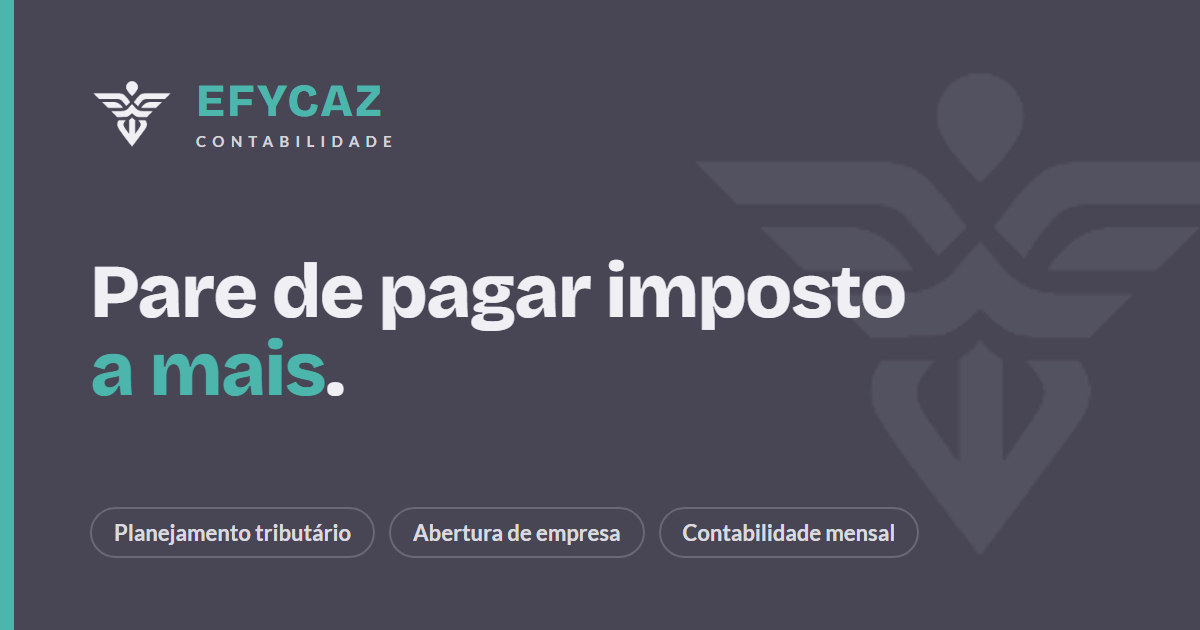
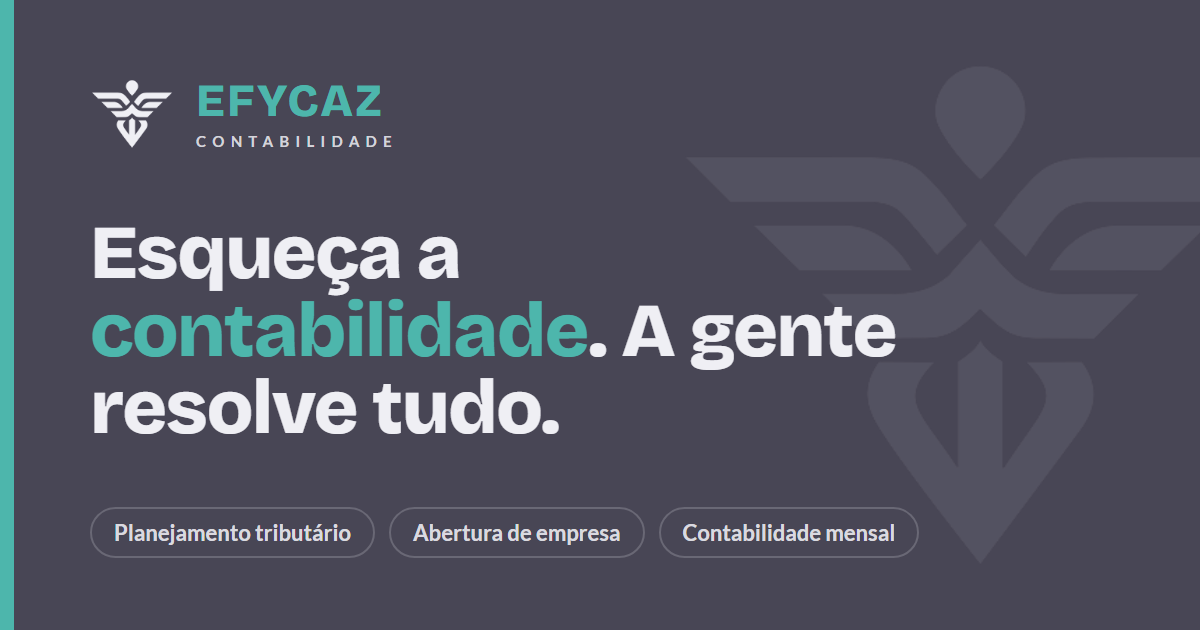
Copy mais direta: foco em tirar a contabilidade das costas do cliente

Changed region(s): [[0.0617, 0.3619, 0.7708, 0.6937], [0.0925, 0.181, 0.1233, 0.2111], [0.0925, 0.1206, 0.1233, 0.1508]]

diff --git a/src/components/sections/hero.tsx b/src/components/sections/hero.tsx
@@ -7,7 +7,7 @@ import { BlurFade } from "@/components/magic/blur-fade";
 import { WhatsAppIcon } from "@/components/whatsapp-icon";
 import { HOURS, whatsappLink } from "@/lib/site";
 
-const promises = ["Atendimento com contador de verdade", "Troca de contador sem burocracia", "Resposta no mesmo dia útil"];
+const promises = ["Zero papelada para você", "Troca de contador sem burocracia", "Contador de verdade no WhatsApp"];
 
 export function Hero() {
   return (
@@ -17,28 +17,28 @@ export function Hero() {
       <div className="relative mx-auto grid max-w-6xl items-center gap-16 px-5 sm:px-8 lg:grid-cols-[1.15fr_1fr]">
         <div>
           <BlurFade>
-            <Badge className="border-teal/40 bg-teal/15 text-teal-bright">Contabilidade consultiva para empresas</Badge>
+            <Badge className="border-teal/40 bg-teal/15 text-teal-bright">Contabilidade completa para empresas</Badge>
           </BlurFade>
           <BlurFade delay={100}>
             <h1 id="hero-title" className="mt-6 font-display text-[2.5rem] font-extrabold leading-[1.04] tracking-tight sm:text-6xl lg:text-[4rem]">
-              Pare de pagar imposto{" "}
+              Esqueça a{" "}
               <span className="relative whitespace-nowrap text-teal">
-                a mais
+                contabilidade
                 <svg aria-hidden viewBox="0 0 200 12" preserveAspectRatio="none" className="absolute -bottom-2 left-0 h-3 w-full text-teal/60">
                   <path d="M2 9C50 3 150 3 198 7" stroke="currentColor" strokeWidth="4" fill="none" strokeLinecap="round" />
                 </svg>
               </span>
-              . <span className="text-mist/90">Sua contabilidade resolvida pelo WhatsApp.</span>
+              . <span className="text-mist/90">A gente resolve tudo.</span>
             </h1>
           </BlurFade>
           <BlurFade delay={200}>
             <p className="mt-7 max-w-xl text-lg leading-relaxed text-mist/75 sm:text-xl">
-              A Efycaz revisa o enquadramento tributário da sua empresa, cuida das obrigações fiscais e da folha, e responde você com um contador de verdade, não com robô nem número de protocolo.
+              Impostos, guias, folha, prazos e burocracia passam a ser problema nosso. Você volta a fazer o que dá dinheiro: vender, atender e crescer. E ainda paga só o imposto que a lei exige.
             </p>
           </BlurFade>
           <BlurFade delay={300} className="mt-10 flex flex-col sm:flex-row">
-            <Button href={whatsappLink("Olá! Quero falar com um contador sobre a minha empresa.")} target="_blank" rel="noopener" size="lg">
-              <WhatsAppIcon /> Quero falar com um contador
+            <Button href={whatsappLink("Olá! Quero tirar a contabilidade das minhas costas. Como funciona?")} target="_blank" rel="noopener" size="lg">
+              <WhatsAppIcon /> Quero me livrar da burocracia
               <ArrowRight className="transition-transform group-hover/btn:translate-x-1" />
             </Button>
           </BlurFade>

diff --git a/index.html b/index.html
@@ -4,7 +4,7 @@
     <meta charset="UTF-8" />
     <meta name="viewport" content="width=device-width, initial-scale=1.0" />
     <title>Efycaz Contabilidade</title>
-    <meta name="description" content="Planejamento tributário, abertura de empresa, contabilidade mensal e folha de pagamento com atendimento humano. Fale com a Efycaz Contabilidade." />
+    <meta name="description" content="Esqueça a contabilidade: impostos, guias, folha e burocracia ficam com a Efycaz. Você cuida do seu negócio, com contador de verdade no WhatsApp." />
     <meta name="theme-color" content="#484655" />
     <!-- TODO: trocar https://www.efycaz.com.br pelo domínio real quando publicar -->
     <link rel="canonical" href="https://www.efycaz.com.br/" />
@@ -14,12 +14,12 @@
     <meta property="og:locale" content="pt_BR" />
     <meta property="og:site_name" content="Efycaz Contabilidade" />
     <meta property="og:title" content="Efycaz Contabilidade" />
-    <meta property="og:description" content="Pare de pagar imposto a mais. Contabilidade consultiva com atendimento humano." />
+    <meta property="og:description" content="Esqueça a contabilidade. A gente resolve tudo, e você volta a cuidar do seu negócio." />
     <meta property="og:url" content="https://www.efycaz.com.br/" />
     <meta property="og:image" content="https://www.efycaz.com.br/og-image.png" />
     <meta property="og:image:width" content="1200" />
     <meta property="og:image:height" content="630" />
-    <meta property="og:image:alt" content="Efycaz Contabilidade: pare de pagar imposto a mais." />
+    <meta property="og:image:alt" content="Efycaz Contabilidade: esqueça a contabilidade, a gente resolve tudo." />
     <meta name="twitter:card" content="summary_large_image" />
     <meta name="twitter:image" content="https://www.efycaz.com.br/og-image.png" />
 

diff --git a/src/components/sections/final-cta.tsx b/src/components/sections/final-cta.tsx
@@ -13,15 +13,15 @@ export function FinalCta() {
         <Watermark tone="light" className="-right-24 -top-16 w-[22rem]" duration={12} />
         <div className="relative">
           <p className="inline-flex items-center gap-2 rounded-full bg-mist/10 px-4 py-2 text-sm font-bold text-teal-bright">
-            <Clock className="size-4" aria-hidden /> Cada mês no regime errado é dinheiro que não volta
+            <Clock className="size-4" aria-hidden /> Cada hora com papelada é uma hora longe do seu negócio
           </p>
           <h2 id="cta-title" className="mx-auto mt-6 max-w-3xl font-display text-4xl font-extrabold leading-[1.05] tracking-tight sm:text-6xl">
-            Descubra em 5 minutos quanto sua empresa pode economizar.
+            Pare de perder tempo com contabilidade. Hoje.
           </h2>
           <p className="mx-auto mt-6 max-w-xl text-lg text-mist/75">
-            Mande uma mensagem agora e converse direto com um contador da Efycaz.
+            Mande uma mensagem agora e um contador da Efycaz assume daqui. Você só volta a pensar nisso quando quiser.
           </p>
-          <Button href={whatsappLink("Olá! Quero descobrir quanto posso economizar.")} target="_blank" rel="noopener" size="lg" className="mt-10">
+          <Button href={whatsappLink("Olá! Quero passar a minha contabilidade para a Efycaz.")} target="_blank" rel="noopener" size="lg" className="mt-10">
             <WhatsAppIcon /> Começar pelo WhatsApp
             <ArrowRight className="transition-transform group-hover/btn:translate-x-1" />
           </Button>

diff --git a/src/components/sections/services.tsx b/src/components/sections/services.tsx
@@ -66,12 +66,12 @@ export function Services() {
           <BlurFade>
             <Badge>O que fazemos por você</Badge>
             <h2 id="services-title" className="mt-5 font-display text-4xl font-extrabold leading-tight tracking-tight sm:text-5xl">
-              Tudo o que a sua empresa precisa, num só lugar.
+              Toda a burocracia da sua empresa. Com a gente.
             </h2>
           </BlurFade>
           <BlurFade delay={100}>
             <p className="text-lg leading-relaxed text-ink/80 lg:pb-2">
-              Da abertura do CNPJ à gestão financeira, a Efycaz cuida da parte técnica e entrega o que interessa: impostos corretos, prazos cumpridos e números que ajudam a decidir.
+              Você não precisa entender de imposto, guia ou eSocial. Essa é a nossa parte. Da abertura do CNPJ à gestão financeira, a Efycaz assume tudo e te entrega só o que importa: números claros e prazos em dia.
             </p>
           </BlurFade>
         </div>

diff --git a/src/components/sections/social-proof.tsx b/src/components/sections/social-proof.tsx
@@ -57,7 +57,7 @@ export function SocialProof() {
           <BlurFade className="max-w-2xl">
             <Badge>Quem já é cliente</Badge>
             <h2 id="proof-title" className="mt-5 font-display text-4xl font-extrabold leading-tight tracking-tight sm:text-5xl">
-              Menos imposto, menos susto, mais tempo para o seu negócio.
+              Eles pararam de perder tempo com contabilidade. Você também pode.
             </h2>
           </BlurFade>
           <BlurFade delay={150} className="hidden shrink-0 md:block">

diff --git a/src/components/sections/how-it-works.tsx b/src/components/sections/how-it-works.tsx
@@ -28,7 +28,7 @@ export function HowItWorks() {
         <BlurFade className="mx-auto max-w-2xl text-center">
           <Badge>Como funciona</Badge>
           <h2 id="how-title" className="mt-5 font-display text-4xl font-extrabold leading-tight tracking-tight sm:text-5xl">
-            Três passos. Nenhuma papelada para você.
+            Você manda uma mensagem. A gente faz o resto.
           </h2>
         </BlurFade>
 
